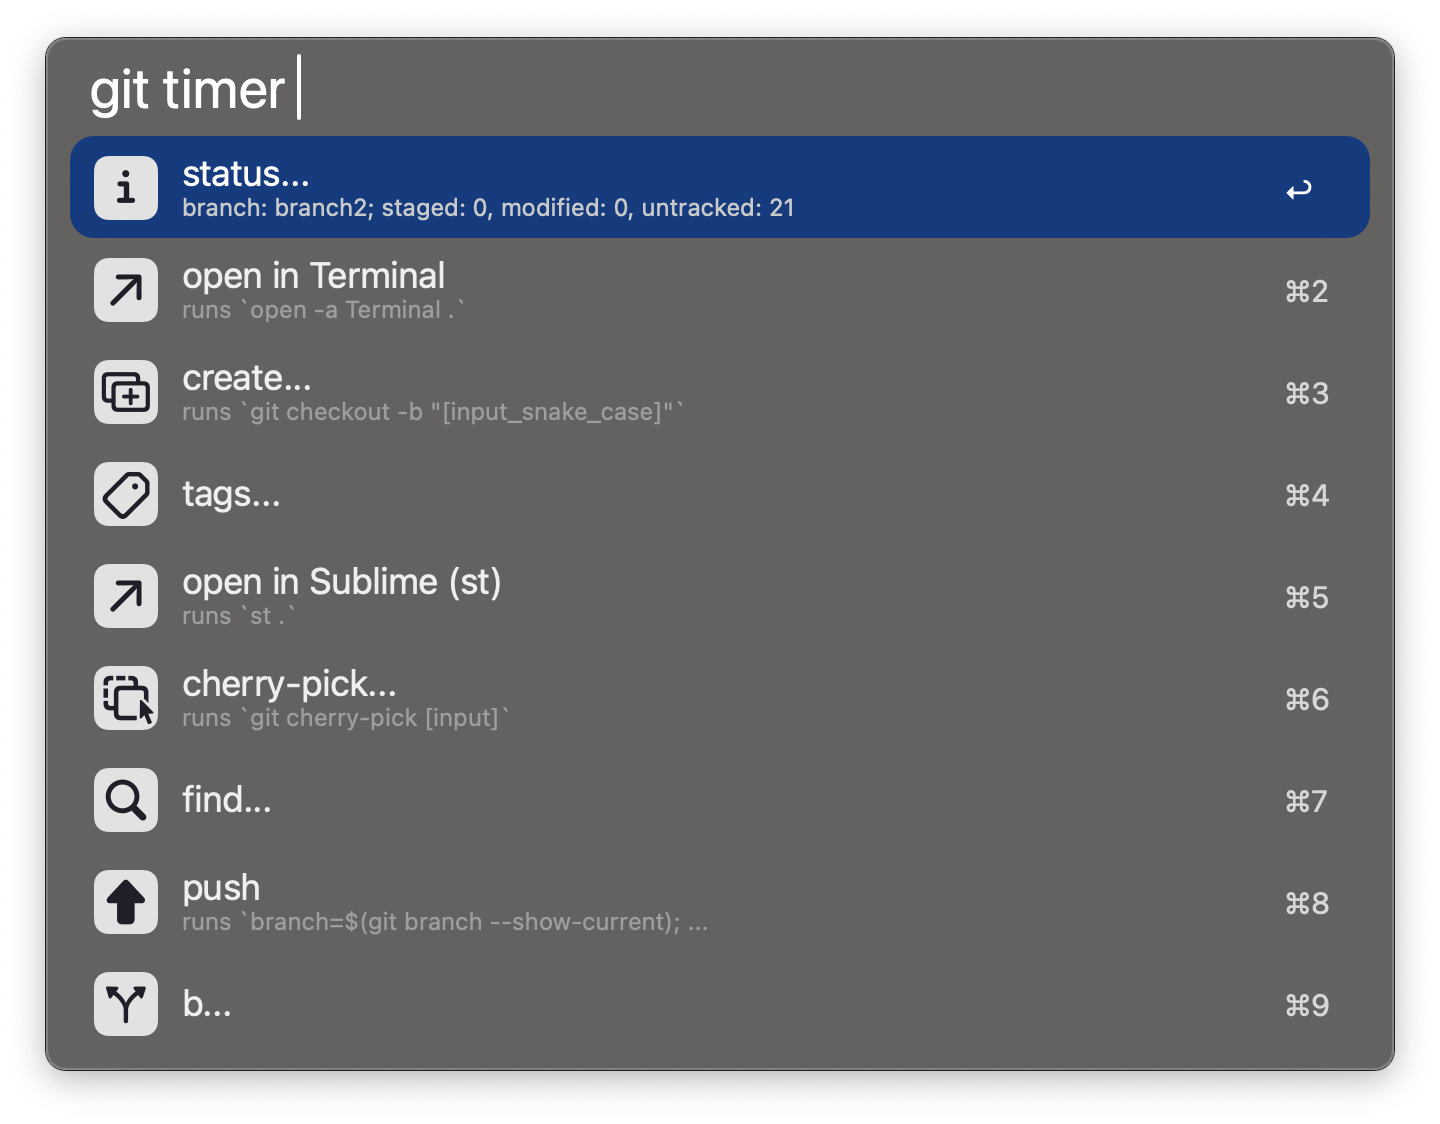
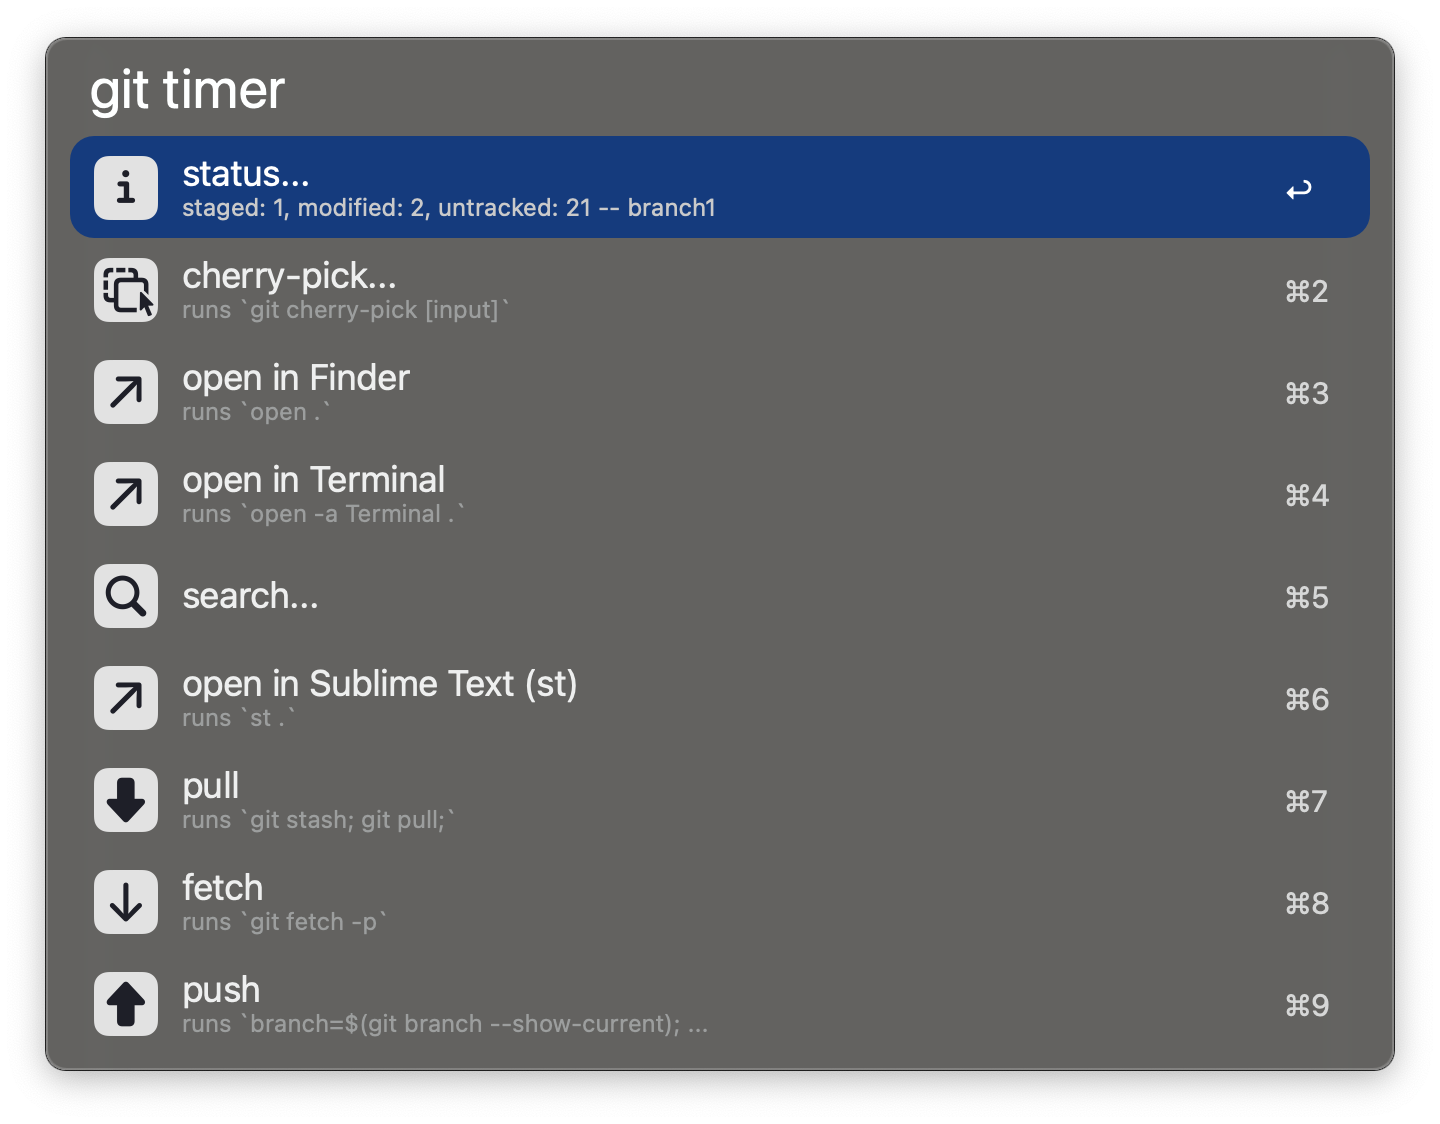
* Update readme and screenshots

diff --git a/readme.md b/readme.md
@@ -1,8 +1,12 @@
-# git+ for Alfred
+# git+ for Alfred: a fully customizable git & zsh interface
 
-A highly customizable Git interface for Alfred, allowing you to create personalized commands and menus to streamline your workflow.
+`git+` allows you to create personalized commands and menus to fully streamline ✨your✨ workflow!
+
+---
 
 For detailed documentation on the commands, see [docs.md](docs.md).
+
+For the official Alfred fourm post, [check here](https://www.alfredforum.com/topic/22463-git-for-alfred-a-fully-customizable-git-zsh-interface/).
 
 ---
 
@@ -14,14 +18,36 @@ For detailed documentation on the commands, see [docs.md](docs.md).
 ### Supports multiple repos
 ![Filter Projects](images/filter_projects.png)
 
+### A powerful status menu
+![Filter Projects](images/status_menu.png)
+
 ### Switch branches 
 ![Checkout Branch](images/checkout_branch.png)
 
 ### Create new branches
 ![Create Branch](images/create_branch.png)
 
+### Ability to view, stage, and unstage hunks
+![Create Branch](images/stage_hunk.png)
+
 ### And so much more!
-![Run Commands](images/commands.png)
+
+* push, push -f
+* pull, fetch
+* commit
+* amend
+* stash, pop
+* rebase, rebase --onto
+* cherry-pick
+* history
+* stage and unstage files
+* copy branch name
+* checkout local and remote branch
+* checkout tags
+* copy diff for tags
+* search files in repo
+* open repo in Finder, Terminal, Alfred, etc
+* `+` anything you want to add 🚀 (see [docs.md](docs.md))
 
 
 ---
